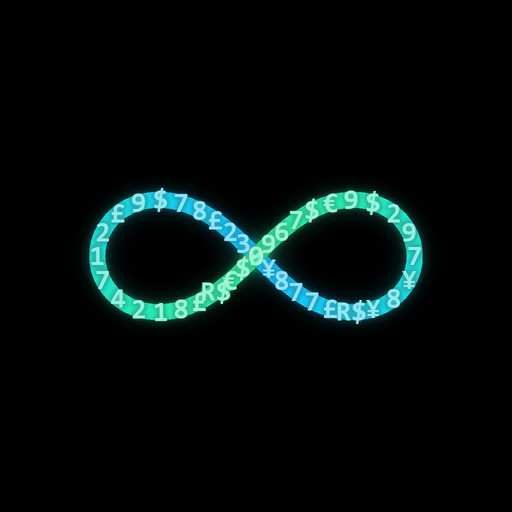
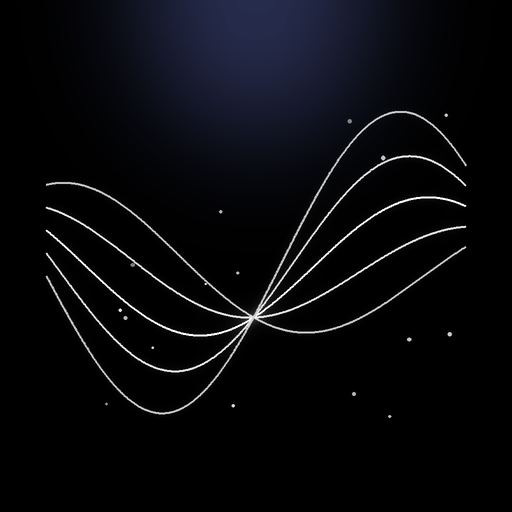
v3.10.2: icone onda de luz branca (5 linhas com glow) em fundo preto, sem texto, tambem na notificacao

diff --git a/js/app.js b/js/app.js
@@ -1,8 +1,8 @@
 /* ===== Finanças 2026 — App (v2) ===== */
 let DATA = { year: 2026, saldoInicial: 0, receitas: [], fixas: [], cartao: [], diaria: [], metas: {} };
 window.CRYPTO_KEY = null;
-const APP_VERSION = "3.10.1";
-const VERSION_NOTES = "♾️ ícone novo estilo Livelo — fundo preto e a fita ∞ centralizada e limpa (também na notificação)";
+const APP_VERSION = "3.10.2";
+const VERSION_NOTES = "🌊 ícone novo — onda de luz branca (5 linhas com brilho) em fundo preto, sem texto (também na notificação)";
 let history = [];
 let redoStack = [];
 let lastSnap = JSON.stringify(DATA);

diff --git a/sw.js b/sw.js
@@ -1,5 +1,5 @@
 /* Service Worker — network-first (sempre busca a versão nova; cache só offline) */
-const CACHE = "financas-v36";
+const CACHE = "financas-v37";
 const ASSETS = [
   "./", "./index.html",
   "./css/styles.css",